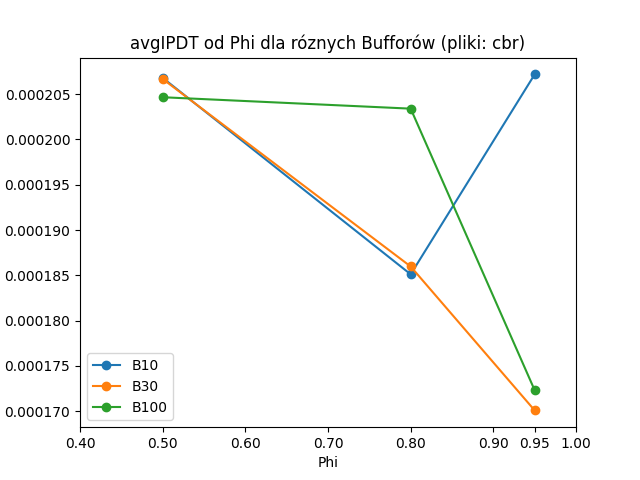
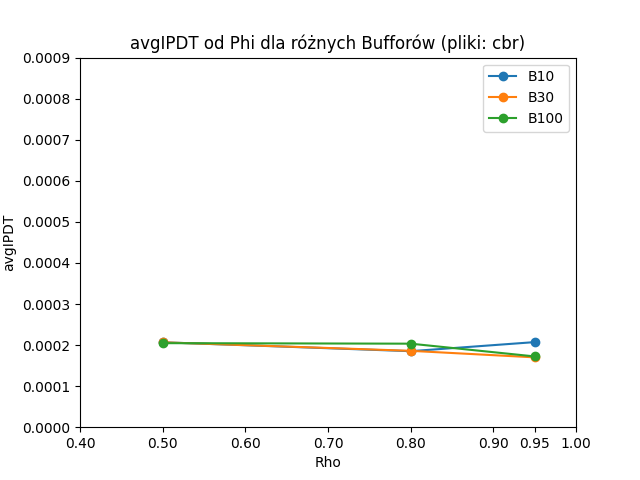
moje wykresy

diff --git a/LABY/lab1/graphSecond.py b/LABY/lab1/graphSecond.py
@@ -1,0 +1,45 @@
+import matplotlib.pyplot as plt
+from data import file_data
+import os
+
+
+def extract_data(file_data, origin, buffor, metric):
+    data = file_data.get(origin, {}).get(metric, {}).get(buffor, [])
+    return data
+
+def draw_chart(file_data, origin, buffor):
+    minIPDT_data = extract_data(file_data, origin, buffor, "minIPDT")
+    avgIPDT_data = extract_data(file_data, origin, buffor, "avgIPDT")
+
+    x_minIPDT = [int(str(value[0])[-2:]) * 0.01 for value in minIPDT_data]
+    y_minIPDT = [value[1] for value in minIPDT_data]
+
+    x_avgIPDT = [int(str(value[0])[-2:]) * 0.01 for value in avgIPDT_data]
+    y_avgIPDT = [value[1] for value in avgIPDT_data]
+
+    plt.plot(x_minIPDT, y_minIPDT, marker='o', linestyle='-', label=f"{origin}_{buffor}_minIPDT")
+    plt.plot(x_avgIPDT, y_avgIPDT, marker='o', linestyle='-', label=f"{origin}_{buffor}_avgIPDT")
+
+# Draw charts for each combination of origin and buffor
+origins = ["cbr", "pois"]
+buffors = ["B10", "B30", "B100"]
+
+plt.figure(figsize=(15, 10))  # Set the figure size for better visibility
+
+for origin in origins:
+    for buffor in buffors:
+        plt.subplot(2, 3, buffors.index(buffor) + 1 + origins.index(origin) * 3)  # Adjust subplot index
+        draw_chart(file_data, origin, buffor)
+
+        plt.xlabel('X')
+        plt.ylabel('Y')
+        plt.title(f'MinIPDT and AvgIPDT for {origin}_{buffor}')
+        plt.xticks([0.5, 0.8, 0.95])  # Set x-axis ticks
+        plt.legend()
+
+
+save_dir = 'my_plots'
+os.makedirs(save_dir, exist_ok=True)  # Create the directory if it doesn't exist
+plt.savefig(os.path.join(save_dir, f'ALLSIX.png'))
+plt.tight_layout()  # Adjust layout to prevent overlapping
+plt.show()

diff --git a/LABY/lab1/graphs.py b/LABY/lab1/graphs.py
@@ -26,17 +26,24 @@ def make_plot_pls(origin, type):
         plt.plot(phi_values, minIPDT_values, marker='o', label=f'{buff_type}')
 
     # Adding labels and legend
-    plt.xlabel('Phi')
+    plt.xlabel('Rho')
     plt.ylabel(type)
     plt.legend()
 
     # Annotating each point with its corresponding x value (phi) under the X-axis
     for buff_type, data in file_data.items():
         for i, txt in enumerate(phi_values):
-            plt.annotate(f'{txt:.2f}', (phi_values[i], 0), textcoords="offset points", xytext=(0, -15), ha='center', va='bottom')
+            plt.annotate(f'{txt:.2f}', (phi_values[i], 0), textcoords=None, xytext=(0, -15), ha='center', va='bottom')
 
     # Set x-axis ticks to include missing value 0.95
     plt.xticks(list(plt.xticks()[0]) + [0.95])
+
+    if type == iplr:
+        plt.ylim(0, 0.0155)
+    elif type == minn or type == avg:
+        plt.ylim(0, 0.0009)
+    elif type == ipdv:
+        plt.ylim(0, 0.0021)
 
     plt.title(f'{type} od Phi dla różnych Bufforów (pliki: {origin})')
     save_dir = 'my_plots'
@@ -54,13 +61,13 @@ if __name__ == "__main__":
     iplr = "IPLR"
     ipdv = "IPDV95"
     
-    make_plot_pls(cbr, avg)
-    make_plot_pls(cbr, minn)
-    make_plot_pls(cbr, iplr)
-    make_plot_pls(cbr, ipdv)
+    # make_plot_pls(cbr, avg)
+    # make_plot_pls(cbr, minn)
+    # make_plot_pls(cbr, iplr)
+    # make_plot_pls(cbr, ipdv)
 
 
-    make_plot_pls(pois, avg)
-    make_plot_pls(pois, minn)
-    make_plot_pls(pois, iplr)
-    make_plot_pls(pois, ipdv)
+    # make_plot_pls(pois, avg)
+    # make_plot_pls(pois, minn)
+    # make_plot_pls(pois, iplr)
+    # make_plot_pls(pois, ipdv)

diff --git a/LABY/lab1/tempCodeRunnerFile.py b/LABY/lab1/tempCodeRunnerFile.py
@@ -1,4 +1,4 @@
-   make_plot_pls(pois, avg)
-    make_plot_pls(pois, minn)
-    make_plot_pls(pois, iplr)
-    make_plot_pls(pois, ipdv)
+  # make_plot_pls(cbr, avg)
+    # make_plot_pls(cbr, minn)
+    # make_plot_pls(cbr, iplr)
+    # make_plot_pls(cbr, ipdv)
